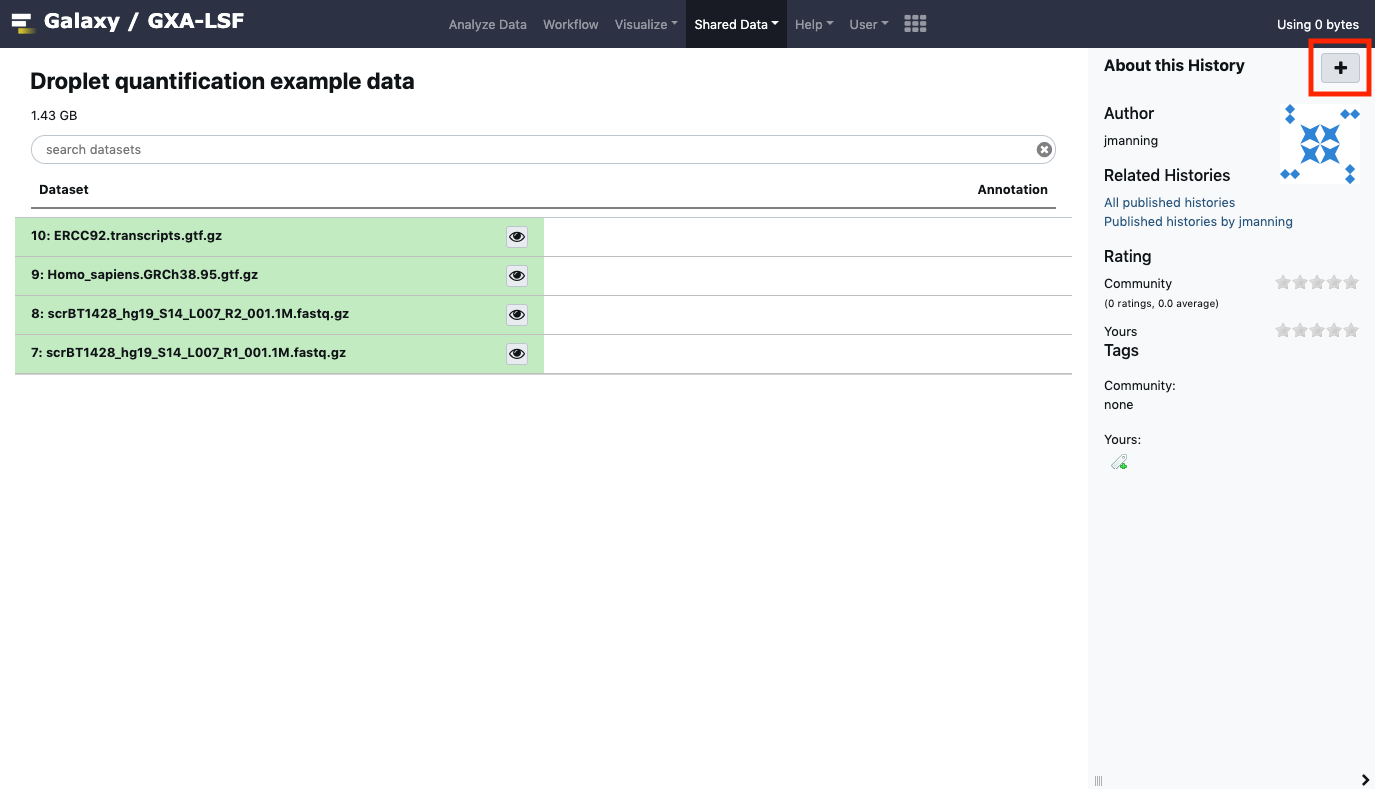
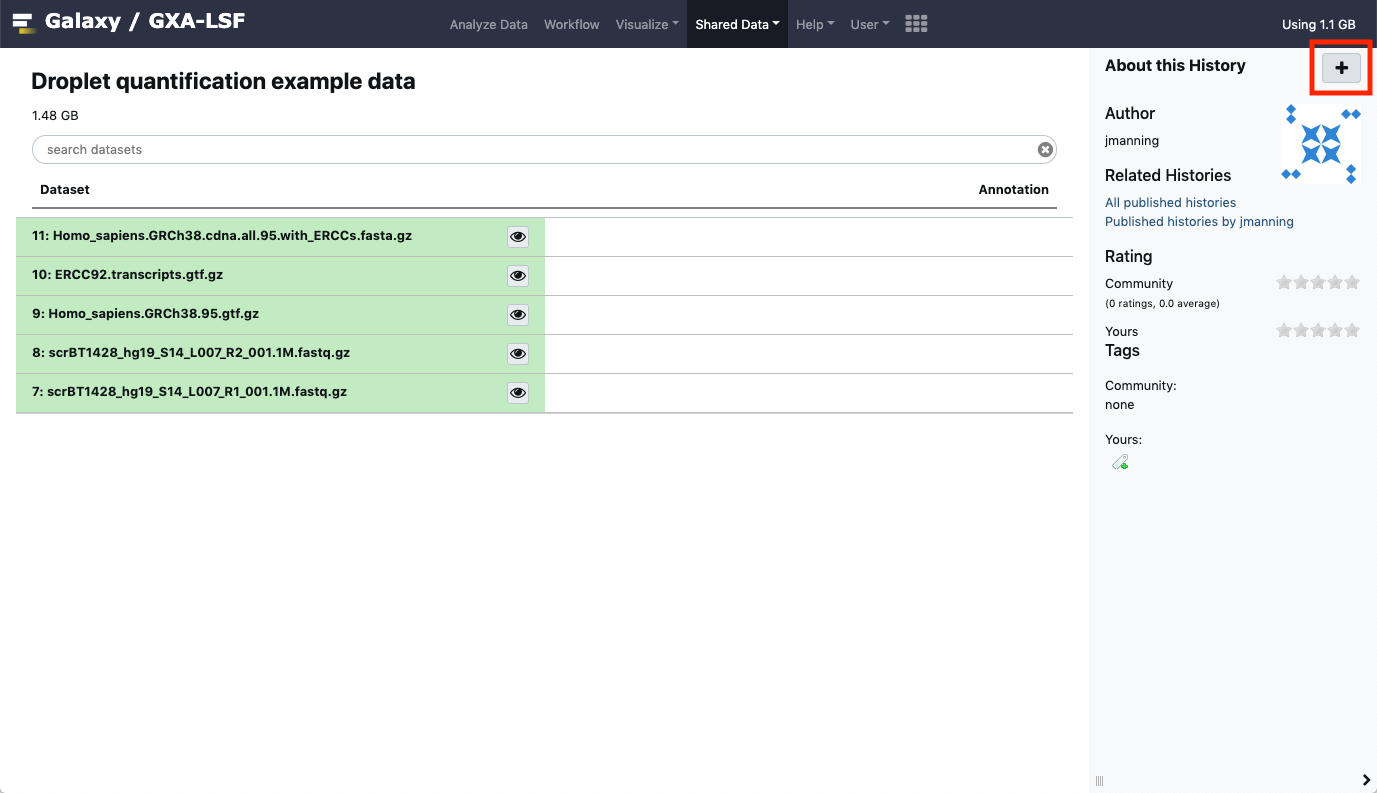
Updates

diff --git a/generating_an_expression_matrix/README.md b/generating_an_expression_matrix/README.md
@@ -12,7 +12,7 @@ By the end of this short tutorial should you should understand:
 
  * A fastq file containing cell barcode and unique molecular identifiers (UMIs)
  * A matching fastq file containg biological sequences (cDNAs)
- * An 'index' to map the reads against
+ * A reference transcriptome to map against
  * Necessary information to generate a transcript-to-gene mapping
 
 We'll be using pre-prepared example inputs
@@ -40,7 +40,7 @@ We'll be using a setup based on Galaxy to illustrate the process for teaching pu
 
 ## 1. Example data
 
-We've provided you with some example data to play with, a small subset of the reads in a human dataset of lung carcinoma (see the study in Single Cell Expression Atlas [here](https://www.ebi.ac.uk/gxa/sc/experiments/E-MTAB-6653/results/tsne) and the project submission [here](https://www.ebi.ac.uk/arrayexpress/experiments/E-MTAB-6653/). 
+We've provided you with some example data to play with, a small subset of the reads in a human dataset of lung carcinoma (see the study in Single Cell Expression Atlas [here](https://www.ebi.ac.uk/gxa/sc/experiments/E-MTAB-6653/results/tsne) and the project submission [here](https://www.ebi.ac.uk/arrayexpress/experiments/E-MTAB-6653/). This is a study using the 10X 'v2' chemistry.
 
 Down-sampled reads and some associated annotation stored in what Galaxy calls a 'history'. Access the shared history:
 
@@ -57,15 +57,15 @@ This is what the your history will look like:
 
 ![see the imported history](imported_history.png)
 
-> Have a look at the files you now have in your history. Which of the FASTQ files do you think contains the barcode sequences?
+> EXERCISE: Have a look at the files you now have in your history. Which of the FASTQ files do you think contains the barcode sequences? Given the chemistry this study should have, are the barcode/UMI reads the right length (hint: check https://teichlab.github.io/scg_lib_structs/methods_html/10xChromium3.html)
 
 ## 2. The workflow
 
 Alevin collapses the steps involved in dealing with dscRNA-seq into a single process, so much of what we'll cover is 'plumbing' of intputs, and interpretation. 
 
-### 1. Genereate a transcriptome index
+### 1. Generate a transcriptome index
 
-Normally, you would need to generate an index for your transcriptome of interest, containing all sequences likely to be present in your experiment's read data. Generating that index is too time-consuming to do as part of this sesssion, so we'll using using one we made earlier.
+Normally, you would need to generate an index for your transcriptome of interest, containing all sequences likely to be present in your experiment's read data. Generating that index is too time-consuming to do as part of this sesssion, so we'll using using one we made earlier. But have a look at the fasta format sequences, which are the same as the ones we used to build the index. 
 
 ### 2. Generate a transcript to gene mapping
 
@@ -77,5 +77,39 @@ For this study our reference data contain biological and spike-in sequence data,
 
 Select biological and technical sequences from your history, and use them as inputs. Run the tool and generate your combined annotations.
  
+> EXERCISE: Which of the 'attributes' in the last column of the GTF files contains the transcript and gene identifiers?
+
+Now we have combined annotations, we can parse the GTF file using the [rtracklayer](https://bioconductor.org/packages/release/bioc/html/rtracklayer.html) package in R. We've made a convenience tool in Galaxy to wrap that functionality for you- search for 'GTF2GeneList':
+
+![GTF2GeneList](gtf2genelist.png)
+
+This tool is designed to do a variety of things. For our purposes parameterise like:
+
+ * "Feature type..." : transcript
+ * "Field to place first..." : (use the transcript ID field you identified above)
+ * "Suppress header" : yes
+ * "Comma separated list of field names" : (transcript ID field),(gene ID field)
+ * "Append version to transcript identifiers" : yes 
+ * "Flag mitochondrial features" : no
+ * "Filter a FASTA": no
+
+> EXERCISE: compare the transcript identifiers with the transcript ID values in the GTF, to see why we say 'yes' to the 'transcript identifiers' question
+
+### 3. Running quantification
+
+Now we have everything we need to run Alevin:
+
+ * A Salmon index for our transcriptome
+ * Barcode/ UMI reads
+ * cDNA reads
+ * transcript/ gene mapping
+
+We can now run Alevin. Locate the tool by searching
+
+
+
+
+
+
 
 
